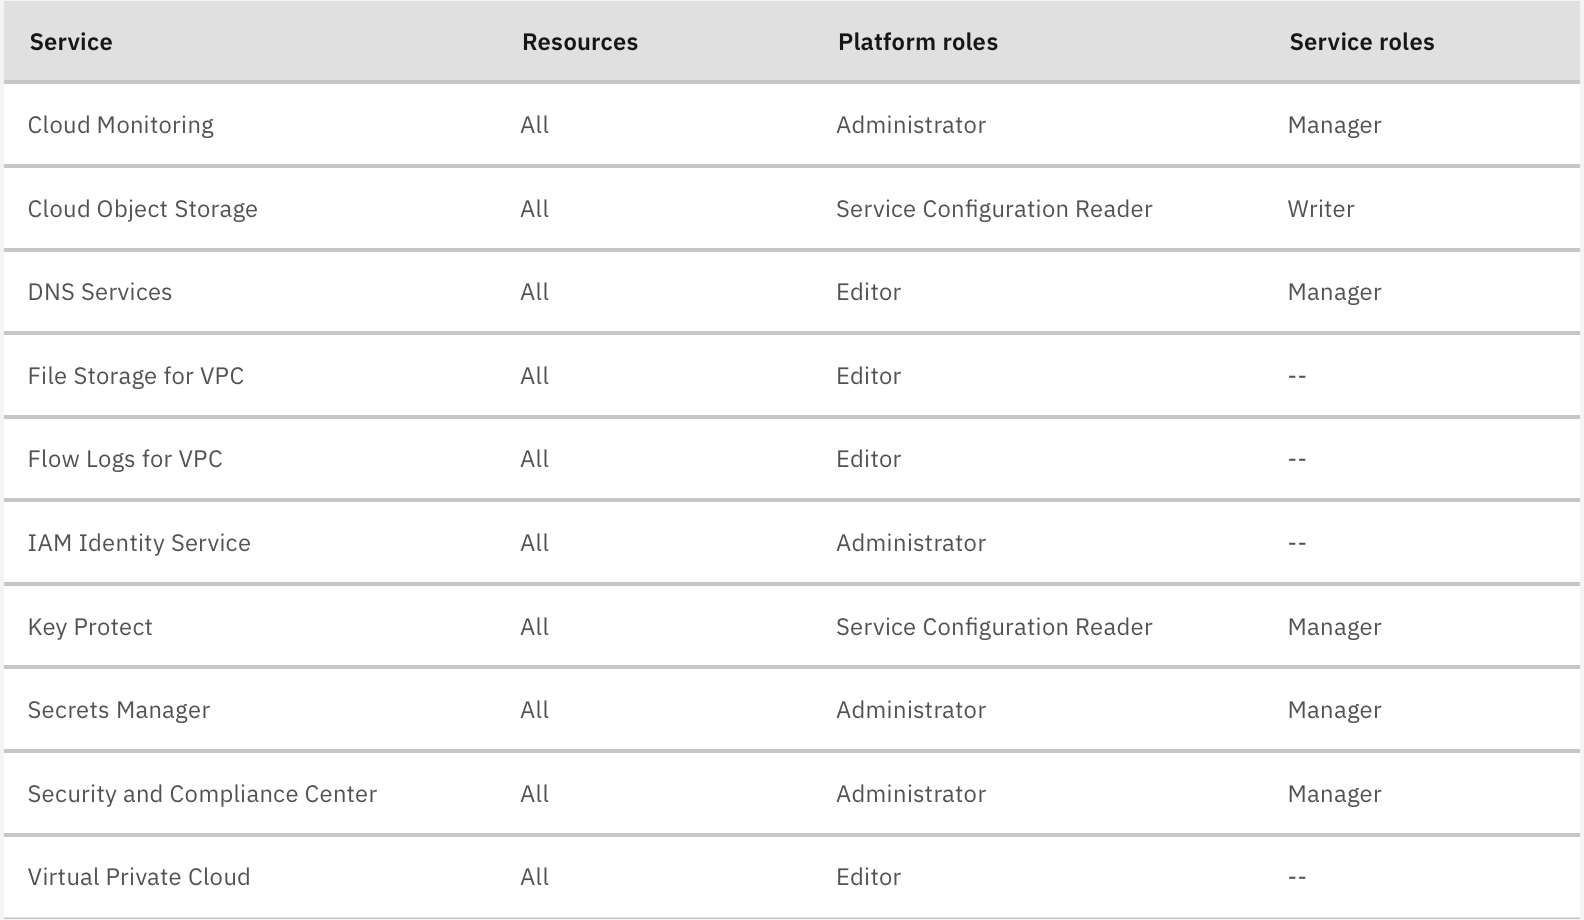
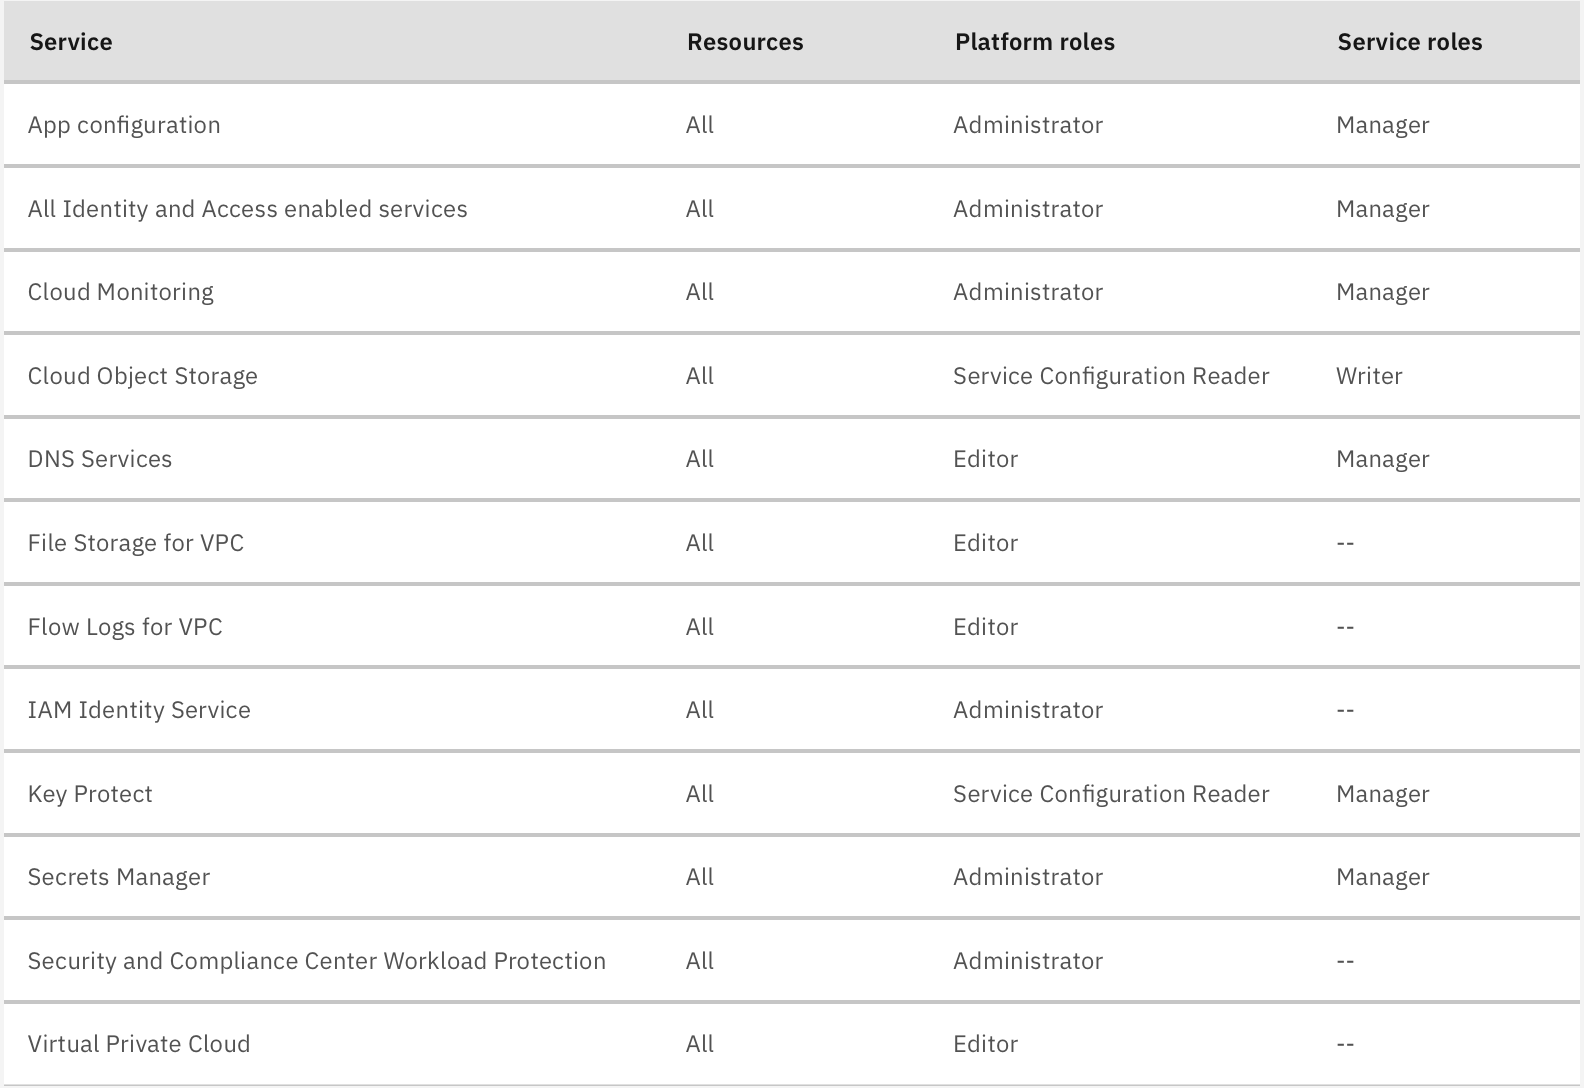
Update: 02-07-2025

Changed region(s): [[0.0, 0.3043, 1.0, 0.9739], [0.0, 0.0304, 1.0, 0.2739]]

diff --git a/scc-workload-protect.md b/scc-workload-protect.md
@@ -96,6 +96,8 @@ When you access the UI for the service, all the above mentioned pillars are cove
 
 If the IAM permissions for the SCC Workload Protection are not enabled right, then the below error occurs:
 `Error: [ERROR] Error getting trusted profile policy: You are not allowed to retrieve the requested policy`.
+{: note}
+
 So below are the required permissions for SCC Workload Protection are:
 | Service | Resources | Platform roles | Service roles |
 | ------- | --------- | ---- | ---- |
@@ -103,4 +105,3 @@ So below are the required permissions for SCC Workload Protection are:
 | All Identity and Access enabled services | All | Administrator | Manager |
 | Security and Compliance Center Workload Protection | All | Administrator | -- |
 {: caption="SCC permissions" caption-side="bottom"}
-{: note}

diff --git a/release-notes.md b/release-notes.md
@@ -2,7 +2,7 @@
 
 copyright:
   years: 2025
-lastupdated: "2025-07-01"
+lastupdated: "2025-07-02"
 
 keywords: IBM Spectrum LSF release notes
 
@@ -33,7 +33,7 @@ The release notes describes the brief overview of the new features, enhancements
 {: #subcollection-july0225}
 {: release-note}
 
-**For this release, the DA tile version is 3.1.0**
+**For this release, the DA tile version is 3.0.0**
 
 Following are the change updates made for this release:
 

diff --git a/faqs.md b/faqs.md
@@ -255,6 +255,7 @@ module.lsf.module.resource_provisioner.null_resource.tf_resource_provisioner[0] 
 {: faq}
 
 If the IAM permissions for the SCC Workload Protection are not enabled right, then the below error occurs:
+
 `Error: [ERROR] Error getting trusted profile policy: You are not allowed to retrieve the requested policy`.
 
 So below are the required permissions for SCC Workload Protection are:
